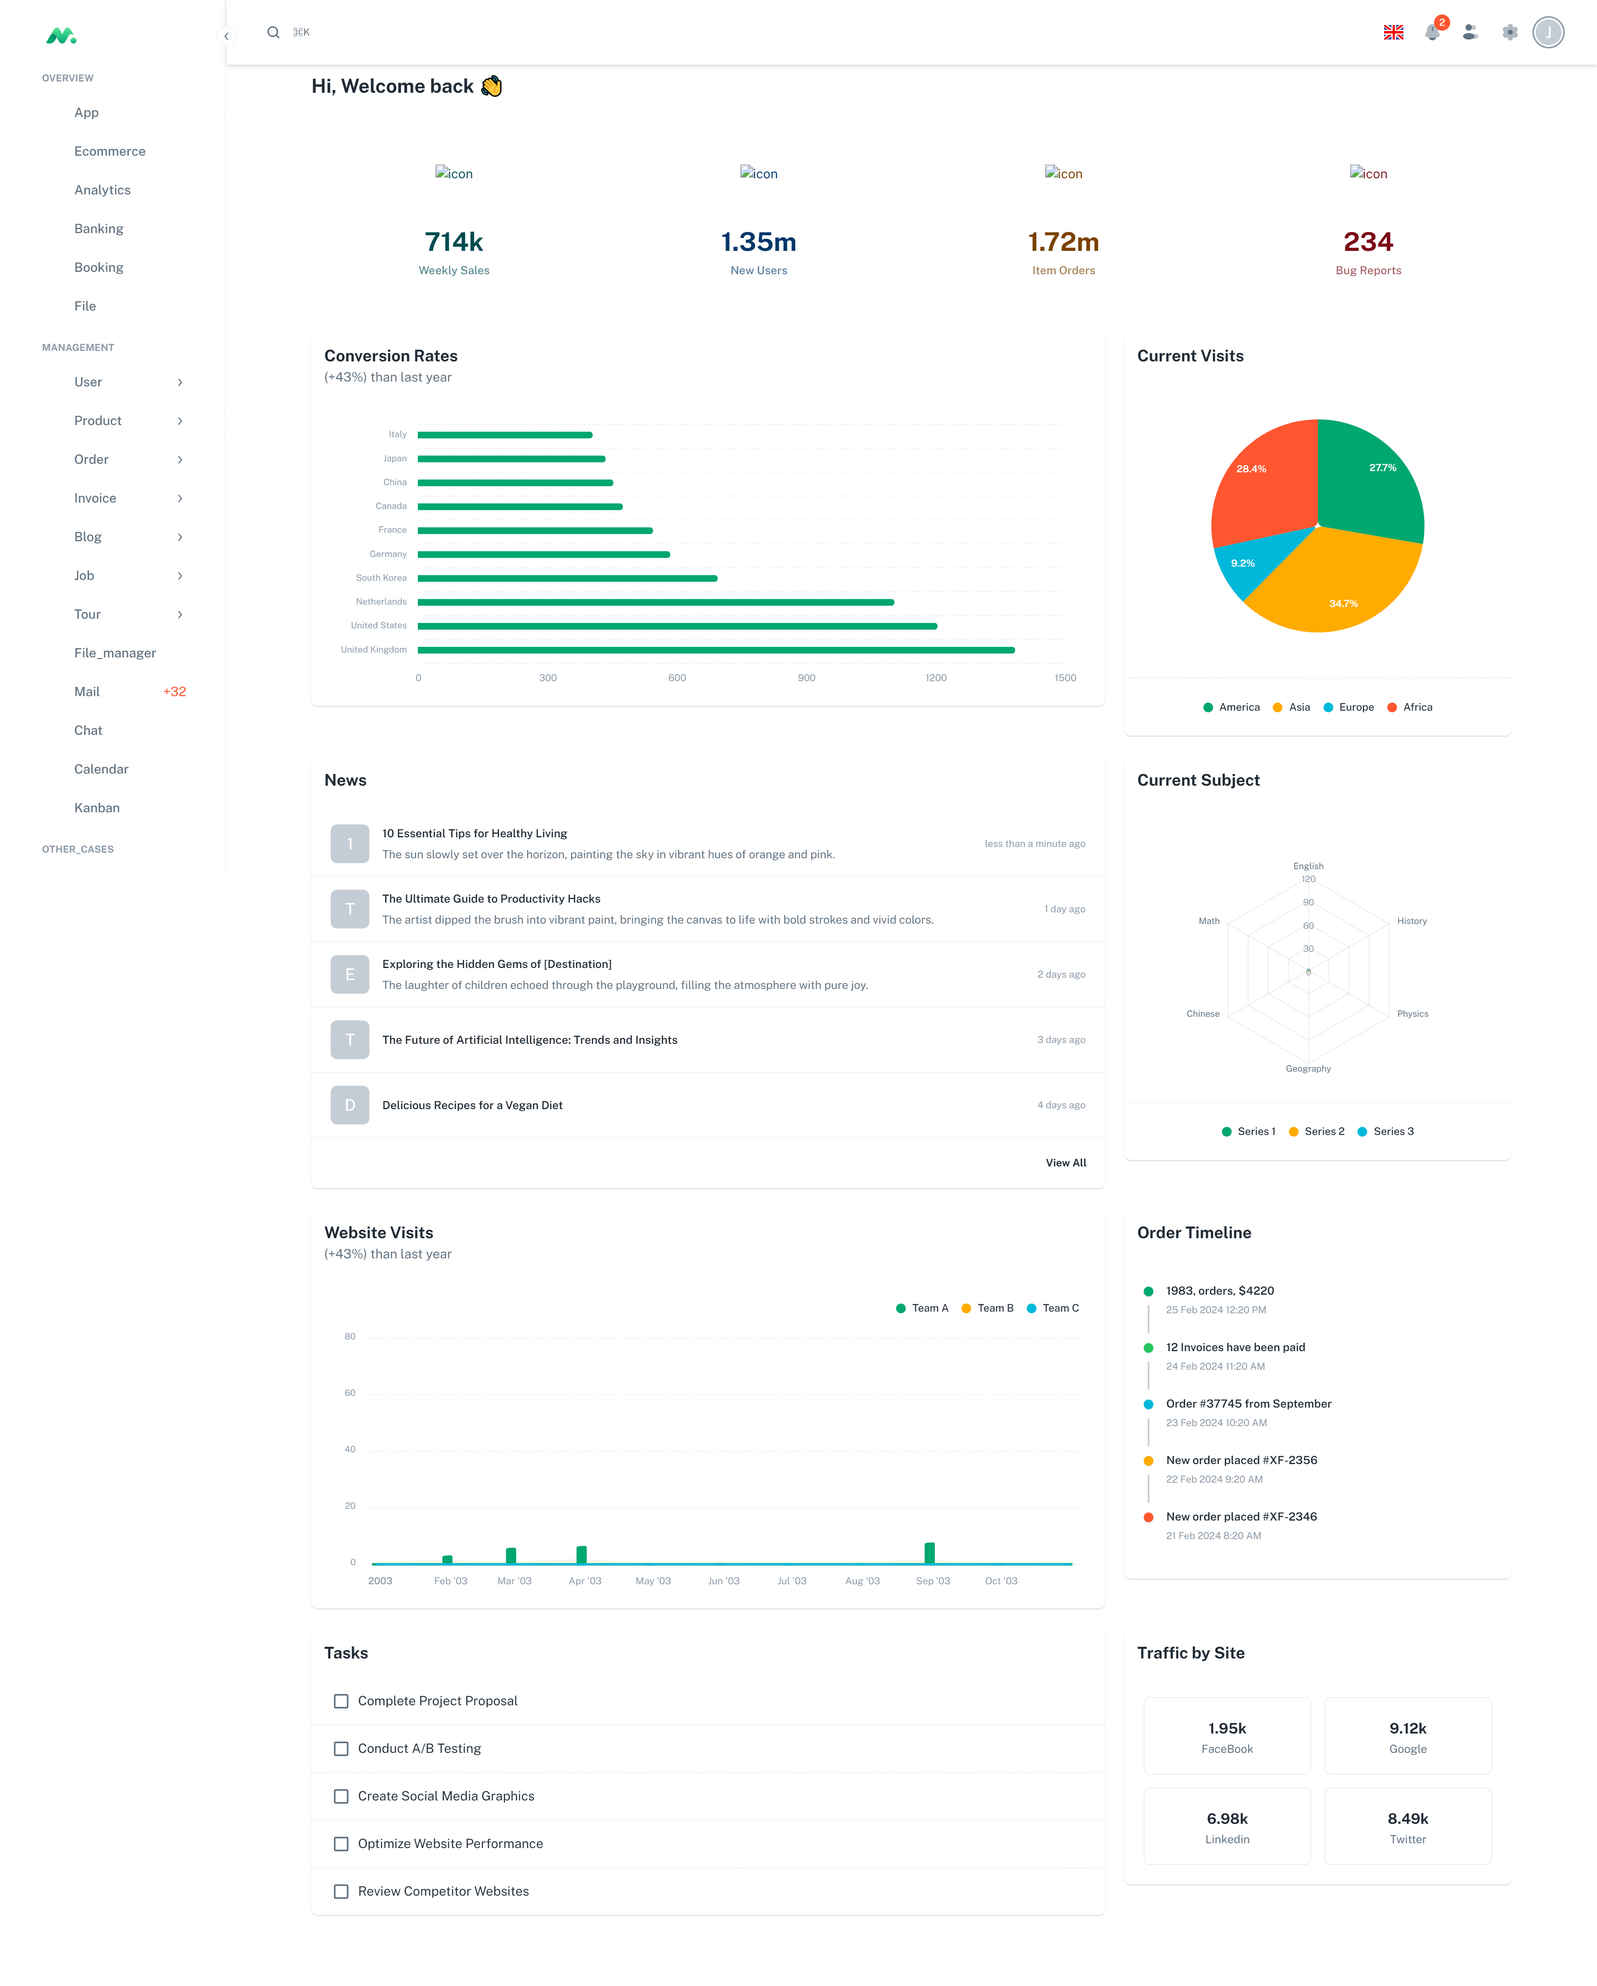
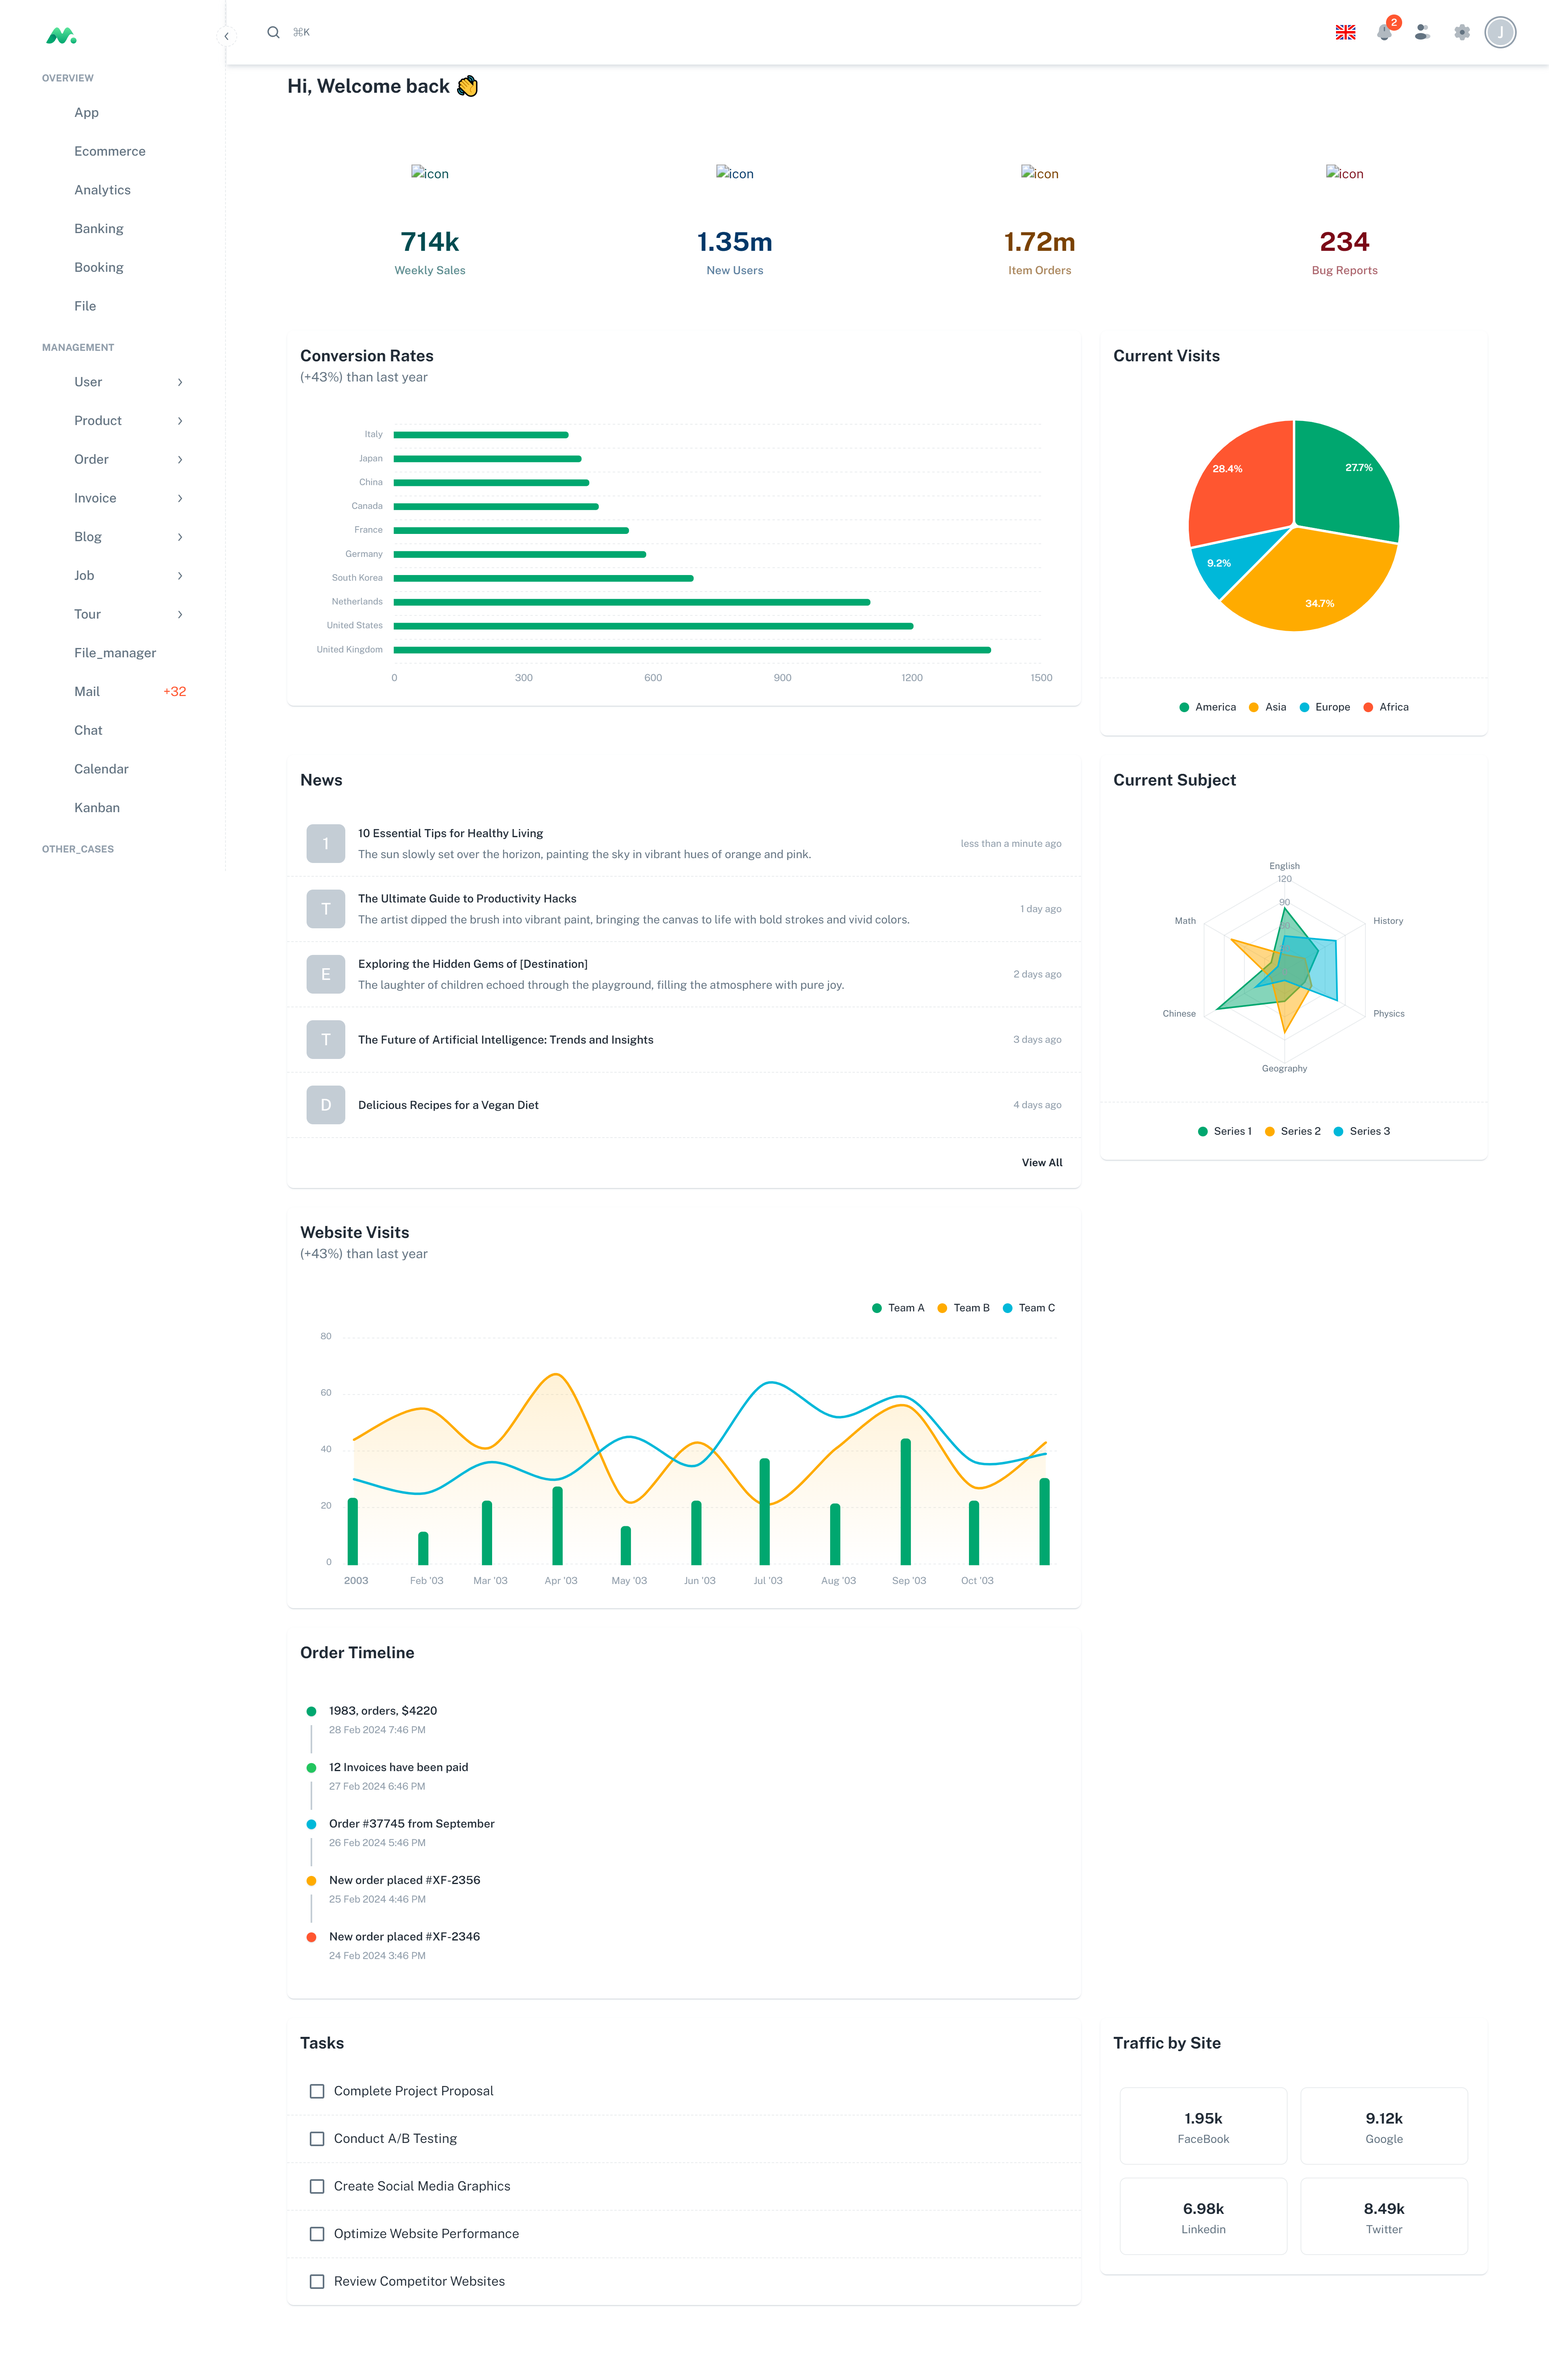
cr_5

diff --git a/src/pages/analytics/OverviewAnalyticsView.jsx b/src/pages/analytics/OverviewAnalyticsView.jsx
@@ -143,7 +143,7 @@ export default function OverviewAnalyticsView() {
           />
         </Grid>
 
-        <Grid xs={12} md={6} lg={8}>
+        <Grid xs={12} md={10} lg={8}>
           <AnalyticsWebsiteVisits
             title="Website Visits"
             subheader="(+43%) than last year"
@@ -184,7 +184,7 @@ export default function OverviewAnalyticsView() {
             }}
           />
         </Grid>
-        <Grid xs={12} md={6} lg={4}>
+        <Grid xs={12} md={10} lg={8}>
           <AnalyticsOrderTimeline
             title="Order Timeline"
             list={_analyticOrderTimeline}
